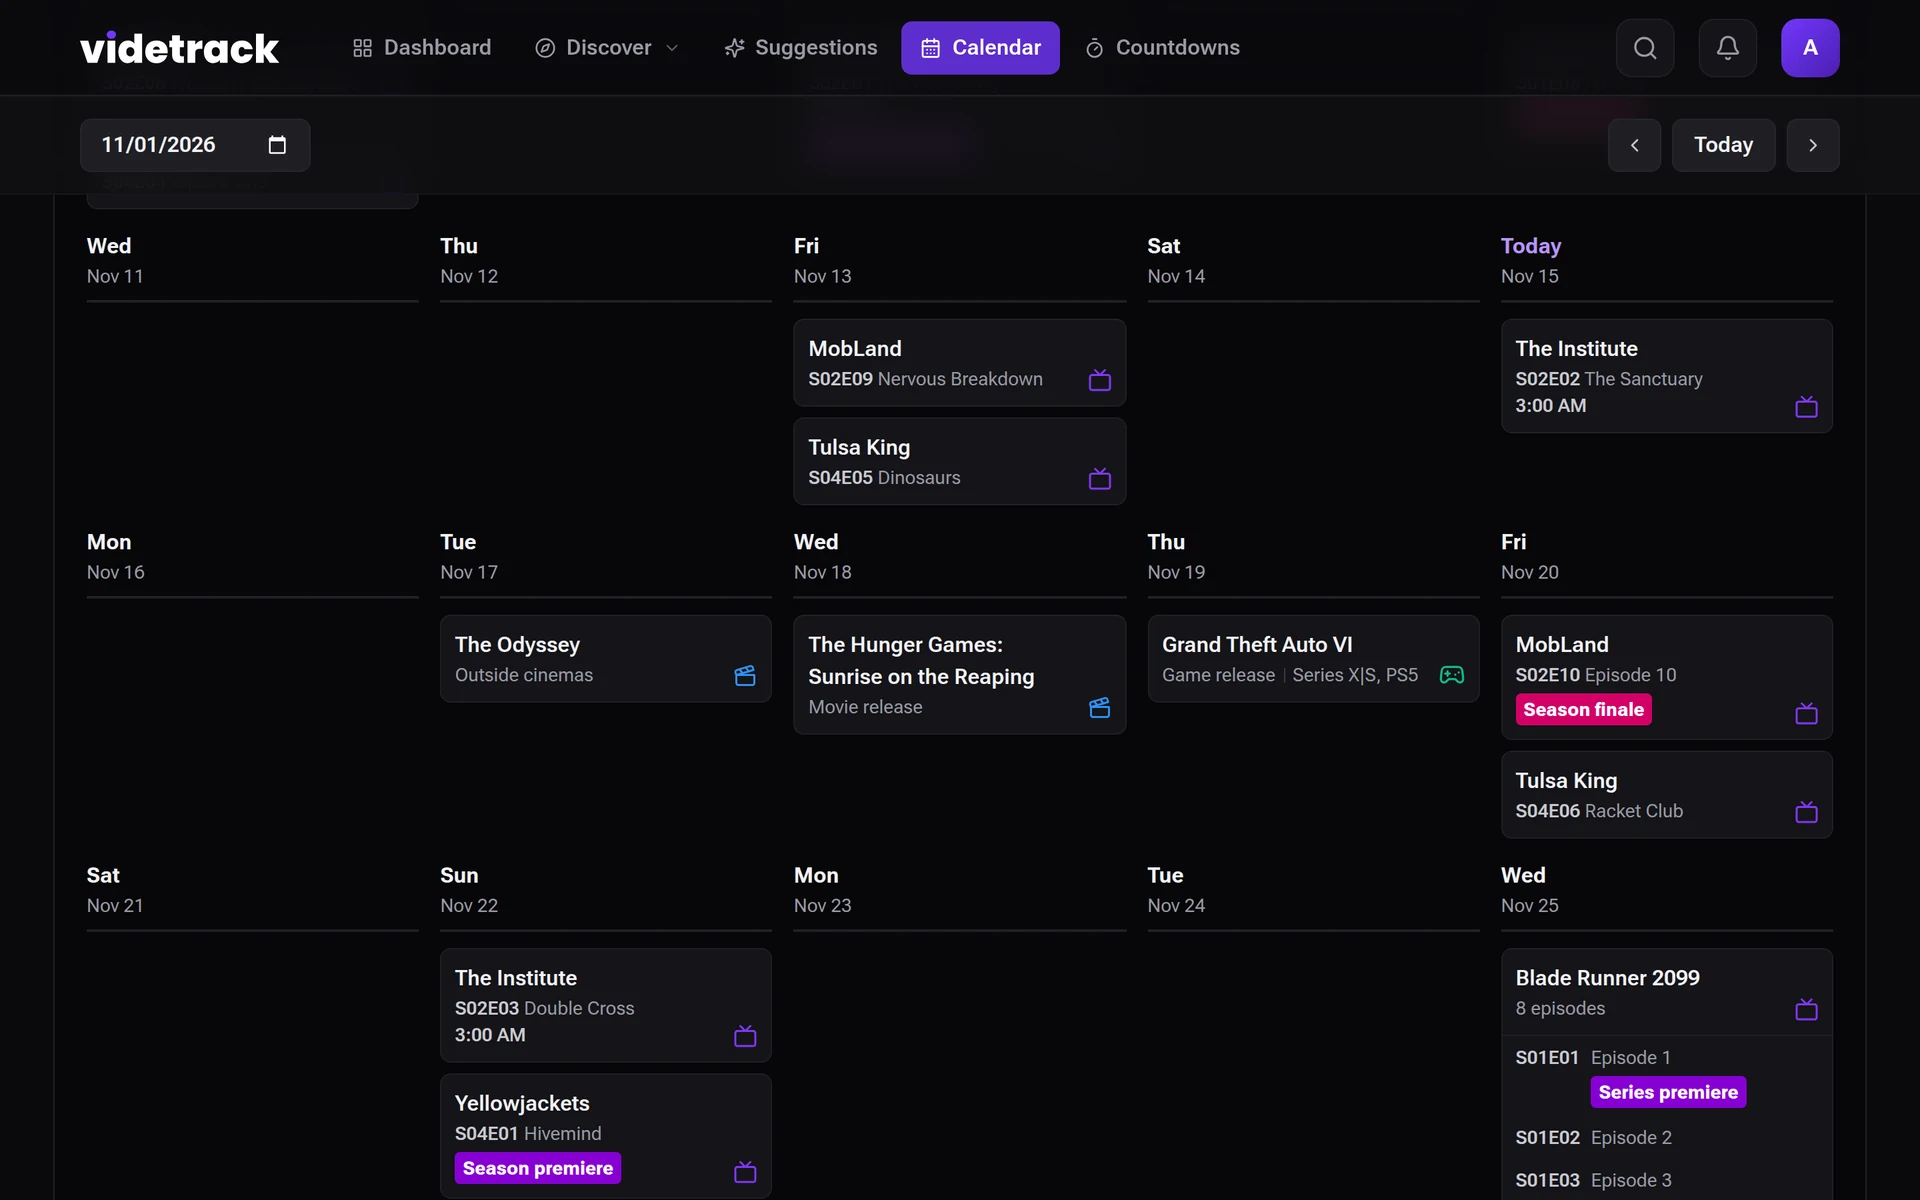
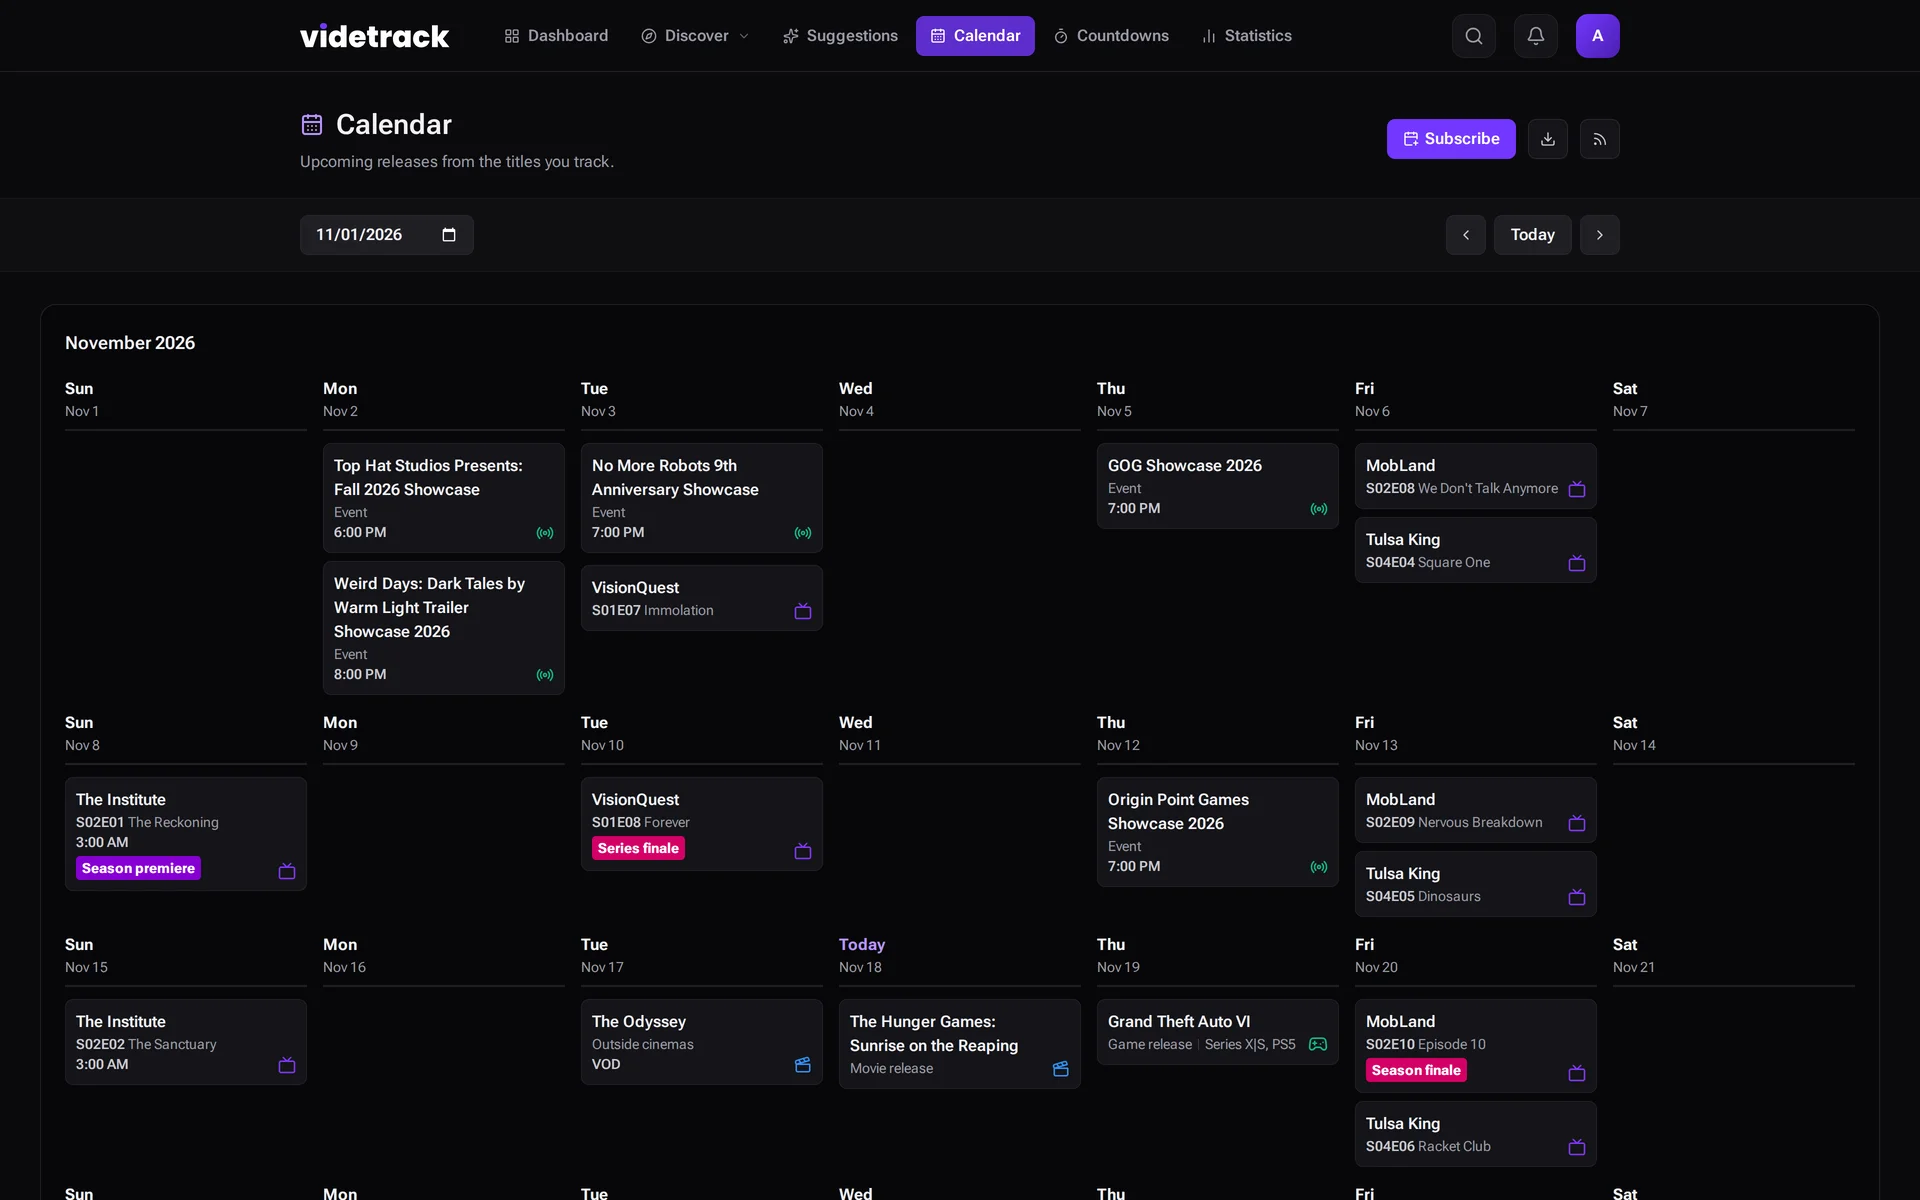
docs: show statistics and more pages in the README

diff --git a/README.md b/README.md
@@ -31,7 +31,7 @@ tells you when the next episode or release is out, and keeps all of it on your o
 - 📅 Follow upcoming releases in a calendar and countdowns, or subscribe to them in your own calendar app or feed reader.
 - 🔔 Ring the bell on a title, a person or a studio to hear about new releases, in the app, on Discord or through Apprise (Telegram, ntfy, e-mail…).
 - ⭐ Rate, favorite and collect titles in a backlog and in your own lists.
-- 📊 Keep a full history with rewatches and see how much time went into it.
+- 📊 Keep a full history with rewatches and see it in statistics: time spent, activity, genres, where titles come from, who made them and how your ratings compare with everyone else's.
 - ✨ Get suggestions based on what you finished. They wait on their own page and never nag.
 - 📥 Import from Trakt, Letterboxd, TV Time, Simkl, IMDb, Goodreads, StoryGraph, MyAnimeList, AniList, Kitsu, Steam and more.
 - 📡 Log what you watch automatically from Plex, Jellyfin, Emby or Tautulli.
@@ -48,16 +48,23 @@ tells you when the next episode or release is out, and keeps all of it on your o
     <td width="50%" align="center"><a href="docs/screenshots/show.webp"><img src="docs/screenshots/show.webp" alt="Show page" /></a><br /><sub>Show page</sub></td>
   </tr>
   <tr>
+    <td width="50%" align="center"><a href="docs/screenshots/person.webp"><img src="docs/screenshots/person.webp" alt="Person page" /></a><br /><sub>Person page</sub></td>
+    <td width="50%" align="center"><a href="docs/screenshots/ratings.webp"><img src="docs/screenshots/ratings.webp" alt="Ratings" /></a><br /><sub>Ratings</sub></td>
+  </tr>
+  <tr>
+    <td width="50%" align="center"><a href="docs/screenshots/discover.webp"><img src="docs/screenshots/discover.webp" alt="Discover" /></a><br /><sub>Discover</sub></td>
+    <td width="50%" align="center"><a href="docs/screenshots/suggestions.webp"><img src="docs/screenshots/suggestions.webp" alt="Suggestions" /></a><br /><sub>Suggestions</sub></td>
+  </tr>
+  <tr>
     <td width="50%" align="center"><a href="docs/screenshots/calendar.webp"><img src="docs/screenshots/calendar.webp" alt="Calendar" /></a><br /><sub>Calendar</sub></td>
     <td width="50%" align="center"><a href="docs/screenshots/countdowns.webp"><img src="docs/screenshots/countdowns.webp" alt="Countdowns" /></a><br /><sub>Countdowns</sub></td>
   </tr>
   <tr>
-    <td width="50%" align="center"><a href="docs/screenshots/suggestions.webp"><img src="docs/screenshots/suggestions.webp" alt="Suggestions" /></a><br /><sub>Suggestions</sub></td>
+    <td width="50%" align="center"><a href="docs/screenshots/statistics.webp"><img src="docs/screenshots/statistics.webp" alt="Statistics" /></a><br /><sub>Statistics</sub></td>
     <td width="50%" align="center"><a href="docs/screenshots/lists.webp"><img src="docs/screenshots/lists.webp" alt="Lists" /></a><br /><sub>Lists</sub></td>
   </tr>
   <tr>
-    <td width="50%" align="center"><a href="docs/screenshots/game.webp"><img src="docs/screenshots/game.webp" alt="Game page" /></a><br /><sub>Game page</sub></td>
-    <td width="50%" align="center"><a href="docs/screenshots/person.webp"><img src="docs/screenshots/person.webp" alt="Person page" /></a><br /><sub>Person page</sub></td>
+    <td colspan="2" align="center"><a href="docs/screenshots/mobile.webp"><img src="docs/screenshots/mobile.webp" alt="Dashboard, show page and statistics on a phone" /></a><br /><sub>On a phone</sub></td>
   </tr>
 </table>
 

diff --git a/docs/screenshots/README.md b/docs/screenshots/README.md
@@ -3,4 +3,5 @@
 Images used by the main README.
 
 - `banner-ui.webp` – the header graphic.
-- the rest – pages of a demo account, 1440×900 viewport at 2x, scaled to 1920 px.
+- the rest – pages of a demo account, 1920×1200 viewport at 2x, scaled to 1920 px.
+- `mobile.webp` – three pages of the same account on a 390 px wide phone, side by side.
